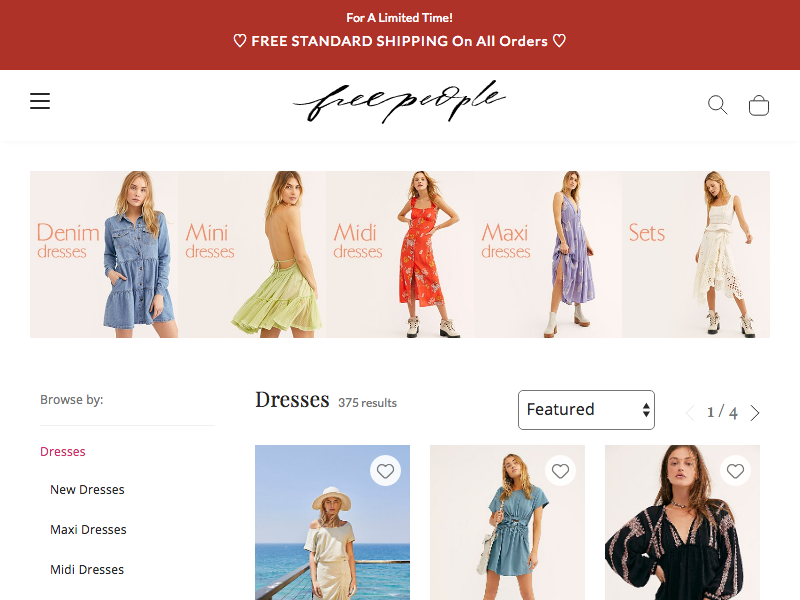
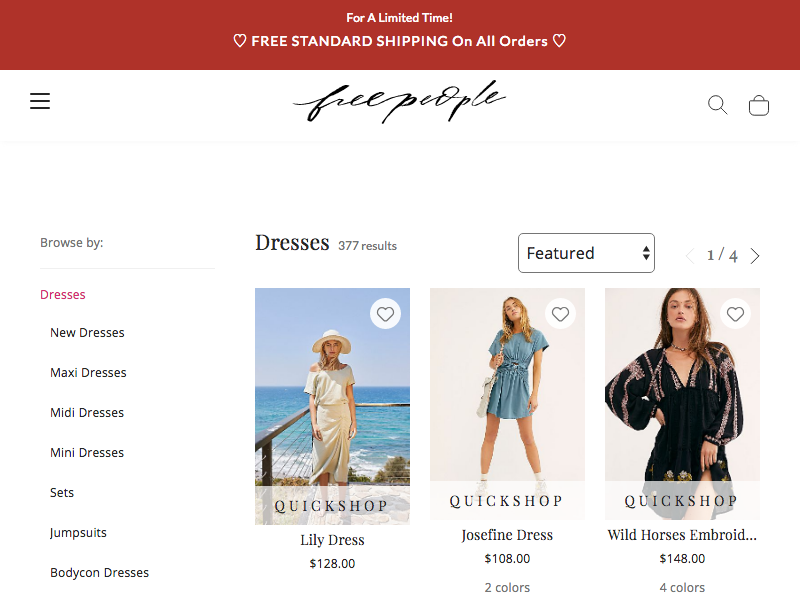
name and price mapped

diff --git a/index.js b/index.js
@@ -1,11 +1,30 @@
-const puppeteer = require('puppeteer');
+const puppeteer = require("puppeteer");
 
 (async () => {
   const browser = await puppeteer.launch();
   const page = await browser.newPage();
-  const url = 'https://www.freepeople.com/dresses/';
+  const url = "https://www.freepeople.com/dresses/";
   await page.goto(url);
-  await page.screenshot({path: 'example.png'});
+  //  await page.screenshot({ path: "example.png" });
+
+  const dressNames = await page.evaluate(() =>
+    Array.from(document.querySelectorAll(".c-product-tile__h3")).map(
+      dressName => dressName.innerText.trim()
+    )
+  );
+
+  const prices = await page.evaluate(() =>
+    Array.from(document.querySelectorAll(".c-product-tile__price")).map(
+ price=> price.innerText.trim()
+    )
+  );
+  //spread the
+  //console.log([...dressNames]);
+  console.log([...prices]);
+
+  //console.log(price);
+
+  //console.log(innerText);
 
   await browser.close();
 })();
